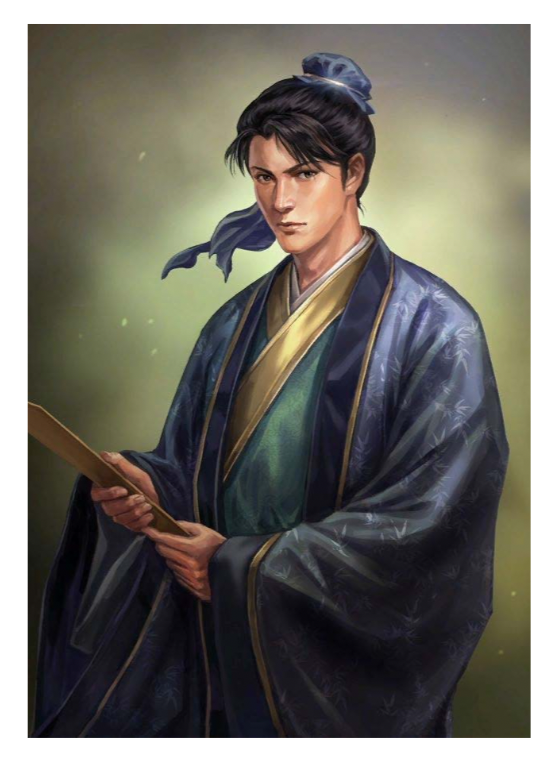
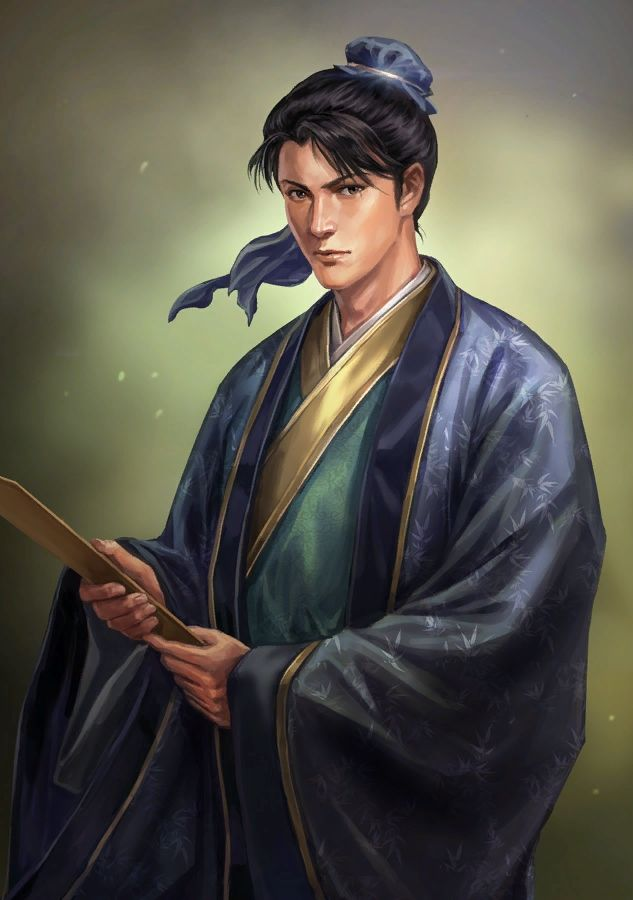
Cap character thumbnail grid at 2; lightbox navigates the full gallery
Replaced lueduo-scholar.png with the borderless version from
uploads/image.png. The character entry's thumbnail grid now renders
only the first two portraits, with a small "+N more" tile when there
are extras; clicking any thumbnail (or the +N tile) opens the
lightbox, where prev/next and the bottom thumb-strip cycle through
the full gallery (all 4 of Lüèduó's portraits remain reachable).

This is the model for character pages going forward — two thumbnails
heading the column, additional portraits accessed through the
lightbox.

diff --git a/dist/character-panel.js b/dist/character-panel.js
@@ -1,3 +1,3 @@
-(function(){const{useState,useEffect}=React;function CharacterPanel({entity:i,onClose:e}){const a=i.item,[o,c]=useState("details"),[n,r]=useState(0),s=a.portraits||[];useEffect(()=>{const t=l=>{l.key==="Escape"?o==="portrait"?c("details"):e():o==="portrait"&&(l.key==="ArrowLeft"&&s.length>1?r(h=>(h-1+s.length)%s.length):l.key==="ArrowRight"&&s.length>1?r(h=>(h+1)%s.length):l.key==="Backspace"&&c("details"))};return window.addEventListener("keydown",t),()=>window.removeEventListener("keydown",t)},[o,s.length,e]);const d=t=>{r(t),c("portrait")};return o==="portrait"?React.createElement(CharacterLightbox,{item:a,portraits:s,idx:n,onIdx:r,onBack:()=>c("details"),onClose:e}):React.createElement("div",{className:"scroll-backdrop visible",onClick:e},React.createElement("div",{className:"char-wrap",onClick:t=>t.stopPropagation()},React.createElement("button",{className:"scroll-close char-close",onClick:e,title:"Close (esc)"},"\xD7"),React.createElement("div",{className:"char-paper"},React.createElement("div",{className:"char-main"},React.createElement("div",{className:"char-eyebrow"},"\u2014 Dramatis Persona \u2014"),React.createElement("h2",{className:"char-title"},a.name),a.role&&React.createElement("div",{className:"char-subtitle"},a.role),a.hook&&React.createElement("blockquote",{className:"char-hook"},a.hook),React.createElement(CharSection,{title:"Appearance",body:a.appearance}),React.createElement(CharSection,{title:"Origin",body:a.background}),React.createElement(CharSection,{title:"In the Company",body:a.partyRole}),React.createElement(CharSection,{title:"Theme",body:a.theme}),a.quote&&React.createElement("div",{className:"char-quote"},React.createElement("div",{className:"char-quote-text"},"\u201C",a.quote.text,"\u201D"),a.quote.source&&React.createElement("div",{className:"char-quote-source"},"\u2014 ",a.quote.source))),React.createElement("aside",{className:"char-aside"},s.length>0&&React.createElement("div",{className:"char-portraits"},React.createElement("div",{className:"char-aside-heading"},"Portraits"),React.createElement("div",{className:"char-portrait-grid"},s.map((t,l)=>React.createElement("button",{key:l,className:"char-portrait-thumb",onClick:()=>d(l),title:t.caption||`Portrait ${l+1}`},React.createElement("img",{src:t.src,alt:t.caption||"",loading:"lazy"}))))),a.origin&&React.createElement(CharFact,{label:"Origin",value:a.origin}),a.arcCareers&&a.arcCareers.length>0&&React.createElement(CharFact,{label:"Careers",value:a.arcCareers.join(" \u2192 ")}),a.languages&&a.languages.length>0&&React.createElement(CharFact,{label:"Tongues",value:a.languages.join(", ")}),a.family&&React.createElement(CharFact,{label:"Family",value:a.family}),a.companions&&a.companions.length>0&&React.createElement(CharFact,{label:"Companions",value:a.companions.join(", ")}),a.followers&&a.followers.length>0&&React.createElement("div",{className:"char-list-block"},React.createElement("div",{className:"char-aside-heading"},"Followers"),React.createElement("ul",{className:"char-list"},a.followers.map((t,l)=>React.createElement("li",{key:l},t)))),a.signatureItems&&a.signatureItems.length>0&&React.createElement("div",{className:"char-list-block"},React.createElement("div",{className:"char-aside-heading"},"Signature Items"),React.createElement("ul",{className:"char-list"},a.signatureItems.map((t,l)=>React.createElement("li",{key:l},t)))),a.abilities&&a.abilities.length>0&&React.createElement("div",{className:"char-list-block"},React.createElement("div",{className:"char-aside-heading"},"Abilities"),React.createElement("div",{className:"char-chips"},a.abilities.map((t,l)=>React.createElement("span",{key:l,className:"char-chip"},t)))),a.flaws&&a.flaws.length>0&&React.createElement("div",{className:"char-list-block"},React.createElement("div",{className:"char-aside-heading"},"Flaws"),React.createElement("ul",{className:"char-list char-list-flaws"},a.flaws.map((t,l)=>React.createElement("li",{key:l},t)))),a.stats&&React.createElement(CharStatsBlock,{stats:a.stats})))))}function CharSection({title:i,body:e}){return e?React.createElement("div",{className:"char-section"},React.createElement("div",{className:"char-section-head"},i),React.createElement("p",{className:"char-section-body"},e)):null}function CharFact({label:i,value:e}){return React.createElement("div",{className:"char-fact"},React.createElement("div",{className:"char-fact-label"},i),React.createElement("div",{className:"char-fact-value"},e))}function CharStatsBlock({stats:i}){const e=[["STR",i.str],["AGI",i.agi],["MIND",i.mind],["APPEAL",i.appeal]].filter(([,c])=>c!==void 0),a=[["Melee",i.melee],["Ranged",i.ranged],["Defense",i.defense],["Init.",i.initiative]].filter(([,c])=>c!==void 0),o=[["Lifeblood",i.lifeblood],["Hero Pts.",i.hero],["Arcane Pts.",i.arcane],["Fate Pts.",i.fate]].filter(([,c])=>c!==void 0);return React.createElement("div",{className:"char-stats"},React.createElement("div",{className:"char-aside-heading"},"Stats (Barbarians of Lemuria)"),[["Attributes",e],["Combat",a],["Vitals",o]].map(([c,n])=>n.length>0&&React.createElement("div",{className:"char-stats-group",key:c},React.createElement("div",{className:"char-stats-label"},c),React.createElement("div",{className:"char-stats-grid"},n.map(([r,s])=>React.createElement("div",{key:r,className:"char-stat-cell"},React.createElement("div",{className:"char-stat-k"},r),React.createElement("div",{className:"char-stat-v"},s)))))))}function CharacterLightbox({item:i,portraits:e,idx:a,onIdx:o,onBack:c,onClose:n}){const r=e[a];return React.createElement("div",{className:"char-lightbox visible",onClick:n},React.createElement("div",{className:"char-lightbox-inner",onClick:s=>s.stopPropagation()},React.createElement("div",{className:"char-lightbox-header"},React.createElement("button",{className:"char-lightbox-btn",onClick:c,title:"Back to details (esc)"},"\u2190 Back to details"),React.createElement("div",{className:"char-lightbox-title"},React.createElement("span",{className:"char-lightbox-name"},i.name),r.caption&&React.createElement("span",{className:"char-lightbox-caption"},r.caption)),React.createElement("button",{className:"char-lightbox-btn",onClick:n,title:"Close (esc)"},"Close \xD7")),React.createElement("div",{className:"char-lightbox-stage"},e.length>1&&React.createElement("button",{className:"char-lightbox-nav prev",onClick:()=>o((a-1+e.length)%e.length),"aria-label":"Previous"},"\u2039"),React.createElement("img",{key:r.src,className:"char-lightbox-img",src:r.src,alt:r.caption||""}),e.length>1&&React.createElement("button",{className:"char-lightbox-nav next",onClick:()=>o((a+1)%e.length),"aria-label":"Next"},"\u203A")),e.length>1&&React.createElement("div",{className:"char-lightbox-strip"},e.map((s,d)=>React.createElement("button",{key:d,className:`char-lightbox-thumb ${d===a?"active":""}`,onClick:()=>o(d),title:s.caption||""},React.createElement("img",{src:s.src,alt:""}))))))}window.CharacterPanel=CharacterPanel;
[1 lines of base64/hex data omitted]
+(function(){const{useState,useEffect}=React;function CharacterPanel({entity:i,onClose:e}){const a=i.item,[o,c]=useState("details"),[n,r]=useState(0),t=a.portraits||[];useEffect(()=>{const s=l=>{l.key==="Escape"?o==="portrait"?c("details"):e():o==="portrait"&&(l.key==="ArrowLeft"&&t.length>1?r(h=>(h-1+t.length)%t.length):l.key==="ArrowRight"&&t.length>1?r(h=>(h+1)%t.length):l.key==="Backspace"&&c("details"))};return window.addEventListener("keydown",s),()=>window.removeEventListener("keydown",s)},[o,t.length,e]);const d=s=>{r(s),c("portrait")};return o==="portrait"?React.createElement(CharacterLightbox,{item:a,portraits:t,idx:n,onIdx:r,onBack:()=>c("details"),onClose:e}):React.createElement("div",{className:"scroll-backdrop visible",onClick:e},React.createElement("div",{className:"char-wrap",onClick:s=>s.stopPropagation()},React.createElement("button",{className:"scroll-close char-close",onClick:e,title:"Close (esc)"},"\xD7"),React.createElement("div",{className:"char-paper"},React.createElement("div",{className:"char-main"},React.createElement("div",{className:"char-eyebrow"},"\u2014 Dramatis Persona \u2014"),React.createElement("h2",{className:"char-title"},a.name),a.role&&React.createElement("div",{className:"char-subtitle"},a.role),a.hook&&React.createElement("blockquote",{className:"char-hook"},a.hook),React.createElement(CharSection,{title:"Appearance",body:a.appearance}),React.createElement(CharSection,{title:"Origin",body:a.background}),React.createElement(CharSection,{title:"In the Company",body:a.partyRole}),React.createElement(CharSection,{title:"Theme",body:a.theme}),a.quote&&React.createElement("div",{className:"char-quote"},React.createElement("div",{className:"char-quote-text"},"\u201C",a.quote.text,"\u201D"),a.quote.source&&React.createElement("div",{className:"char-quote-source"},"\u2014 ",a.quote.source))),React.createElement("aside",{className:"char-aside"},t.length>0&&React.createElement("div",{className:"char-portraits"},React.createElement("div",{className:"char-aside-heading"},"Portraits"),React.createElement("div",{className:"char-portrait-grid"},t.slice(0,2).map((s,l)=>React.createElement("button",{key:l,className:"char-portrait-thumb",onClick:()=>d(l),title:s.caption||`Portrait ${l+1}`},React.createElement("img",{src:s.src,alt:s.caption||"",loading:"lazy"}))),t.length>2&&React.createElement("button",{className:"char-portrait-thumb char-portrait-more",onClick:()=>d(0),title:`${t.length-2} more`},React.createElement("span",null,"+",t.length-2)))),a.origin&&React.createElement(CharFact,{label:"Origin",value:a.origin}),a.arcCareers&&a.arcCareers.length>0&&React.createElement(CharFact,{label:"Careers",value:a.arcCareers.join(" \u2192 ")}),a.languages&&a.languages.length>0&&React.createElement(CharFact,{label:"Tongues",value:a.languages.join(", ")}),a.family&&React.createElement(CharFact,{label:"Family",value:a.family}),a.companions&&a.companions.length>0&&React.createElement(CharFact,{label:"Companions",value:a.companions.join(", ")}),a.followers&&a.followers.length>0&&React.createElement("div",{className:"char-list-block"},React.createElement("div",{className:"char-aside-heading"},"Followers"),React.createElement("ul",{className:"char-list"},a.followers.map((s,l)=>React.createElement("li",{key:l},s)))),a.signatureItems&&a.signatureItems.length>0&&React.createElement("div",{className:"char-list-block"},React.createElement("div",{className:"char-aside-heading"},"Signature Items"),React.createElement("ul",{className:"char-list"},a.signatureItems.map((s,l)=>React.createElement("li",{key:l},s)))),a.abilities&&a.abilities.length>0&&React.createElement("div",{className:"char-list-block"},React.createElement("div",{className:"char-aside-heading"},"Abilities"),React.createElement("div",{className:"char-chips"},a.abilities.map((s,l)=>React.createElement("span",{key:l,className:"char-chip"},s)))),a.flaws&&a.flaws.length>0&&React.createElement("div",{className:"char-list-block"},React.createElement("div",{className:"char-aside-heading"},"Flaws"),React.createElement("ul",{className:"char-list char-list-flaws"},a.flaws.map((s,l)=>React.createElement("li",{key:l},s)))),a.stats&&React.createElement(CharStatsBlock,{stats:a.stats})))))}function CharSection({title:i,body:e}){return e?React.createElement("div",{className:"char-section"},React.createElement("div",{className:"char-section-head"},i),React.createElement("p",{className:"char-section-body"},e)):null}function CharFact({label:i,value:e}){return React.createElement("div",{className:"char-fact"},React.createElement("div",{className:"char-fact-label"},i),React.createElement("div",{className:"char-fact-value"},e))}function CharStatsBlock({stats:i}){const e=[["STR",i.str],["AGI",i.agi],["MIND",i.mind],["APPEAL",i.appeal]].filter(([,c])=>c!==void 0),a=[["Melee",i.melee],["Ranged",i.ranged],["Defense",i.defense],["Init.",i.initiative]].filter(([,c])=>c!==void 0),o=[["Lifeblood",i.lifeblood],["Hero Pts.",i.hero],["Arcane Pts.",i.arcane],["Fate Pts.",i.fate]].filter(([,c])=>c!==void 0);return React.createElement("div",{className:"char-stats"},React.createElement("div",{className:"char-aside-heading"},"Stats (Barbarians of Lemuria)"),[["Attributes",e],["Combat",a],["Vitals",o]].map(([c,n])=>n.length>0&&React.createElement("div",{className:"char-stats-group",key:c},React.createElement("div",{className:"char-stats-label"},c),React.createElement("div",{className:"char-stats-grid"},n.map(([r,t])=>React.createElement("div",{key:r,className:"char-stat-cell"},React.createElement("div",{className:"char-stat-k"},r),React.createElement("div",{className:"char-stat-v"},t)))))))}function CharacterLightbox({item:i,portraits:e,idx:a,onIdx:o,onBack:c,onClose:n}){const r=e[a];return React.createElement("div",{className:"char-lightbox visible",onClick:n},React.createElement("div",{className:"char-lightbox-inner",onClick:t=>t.stopPropagation()},React.createElement("div",{className:"char-lightbox-header"},React.createElement("button",{className:"char-lightbox-btn",onClick:c,title:"Back to details (esc)"},"\u2190 Back to details"),React.createElement("div",{className:"char-lightbox-title"},React.createElement("span",{className:"char-lightbox-name"},i.name),r.caption&&React.createElement("span",{className:"char-lightbox-caption"},r.caption)),React.createElement("button",{className:"char-lightbox-btn",onClick:n,title:"Close (esc)"},"Close \xD7")),React.createElement("div",{className:"char-lightbox-stage"},e.length>1&&React.createElement("button",{className:"char-lightbox-nav prev",onClick:()=>o((a-1+e.length)%e.length),"aria-label":"Previous"},"\u2039"),React.createElement("img",{key:r.src,className:"char-lightbox-img",src:r.src,alt:r.caption||""}),e.length>1&&React.createElement("button",{className:"char-lightbox-nav next",onClick:()=>o((a+1)%e.length),"aria-label":"Next"},"\u203A")),e.length>1&&React.createElement("div",{className:"char-lightbox-strip"},e.map((t,d)=>React.createElement("button",{key:d,className:`char-lightbox-thumb ${d===a?"active":""}`,onClick:()=>o(d),title:t.caption||""},React.createElement("img",{src:t.src,alt:""}))))))}window.CharacterPanel=CharacterPanel;
[1 lines of base64/hex data omitted]
 })();

diff --git a/character-panel.jsx b/character-panel.jsx
@@ -89,7 +89,9 @@ function CharacterPanel({ entity, onClose }) {
               <div className="char-portraits">
                 <div className="char-aside-heading">Portraits</div>
                 <div className="char-portrait-grid">
-                  {portraits.map((p, i) => (
+                  {/* Show only first 2 as thumbnails; the lightbox lets the
+                      user navigate through all portraits via prev/next. */}
+                  {portraits.slice(0, 2).map((p, i) => (
                     <button
                       key={i}
                       className="char-portrait-thumb"
@@ -99,6 +101,15 @@ function CharacterPanel({ entity, onClose }) {
                       <img src={p.src} alt={p.caption || ''} loading="lazy"/>
                     </button>
                   ))}
+                  {portraits.length > 2 && (
+                    <button
+                      className="char-portrait-thumb char-portrait-more"
+                      onClick={() => openPortrait(0)}
+                      title={`${portraits.length - 2} more`}
+                    >
+                      <span>+{portraits.length - 2}</span>
+                    </button>
+                  )}
                 </div>
               </div>
             )}

diff --git a/styles.css b/styles.css
@@ -303,6 +303,25 @@ html, body {
 /* Brown two-line frame:
      - inner: thin, 1px onto the painted map (sits on its outer edge)
      - outer: heavier, 30px outside the map all the way around. */
+/* "+N more" tile that appears in the portrait thumbnail grid when a
+   character has more than 2 portraits. Click takes the user into the
+   lightbox where prev/next cycles through the whole gallery. */
+.char-portrait-more {
+  display: flex;
+  align-items: center;
+  justify-content: center;
+  font-family: 'Cormorant Garamond', serif;
+  font-size: 24px;
+  font-weight: 600;
+  color: var(--gold);
+  background: oklch(0.16 0.06 265 / 0.6);
+  border: 1px dashed oklch(0.55 0.10 75 / 0.5);
+}
+.char-portrait-more:hover {
+  background: oklch(0.20 0.07 265 / 0.7);
+  border-color: var(--gold);
+}
+
 .map-frame-inner {
   position: absolute;
   left: 103px;      /* 3px inside the painted map's left edge */
